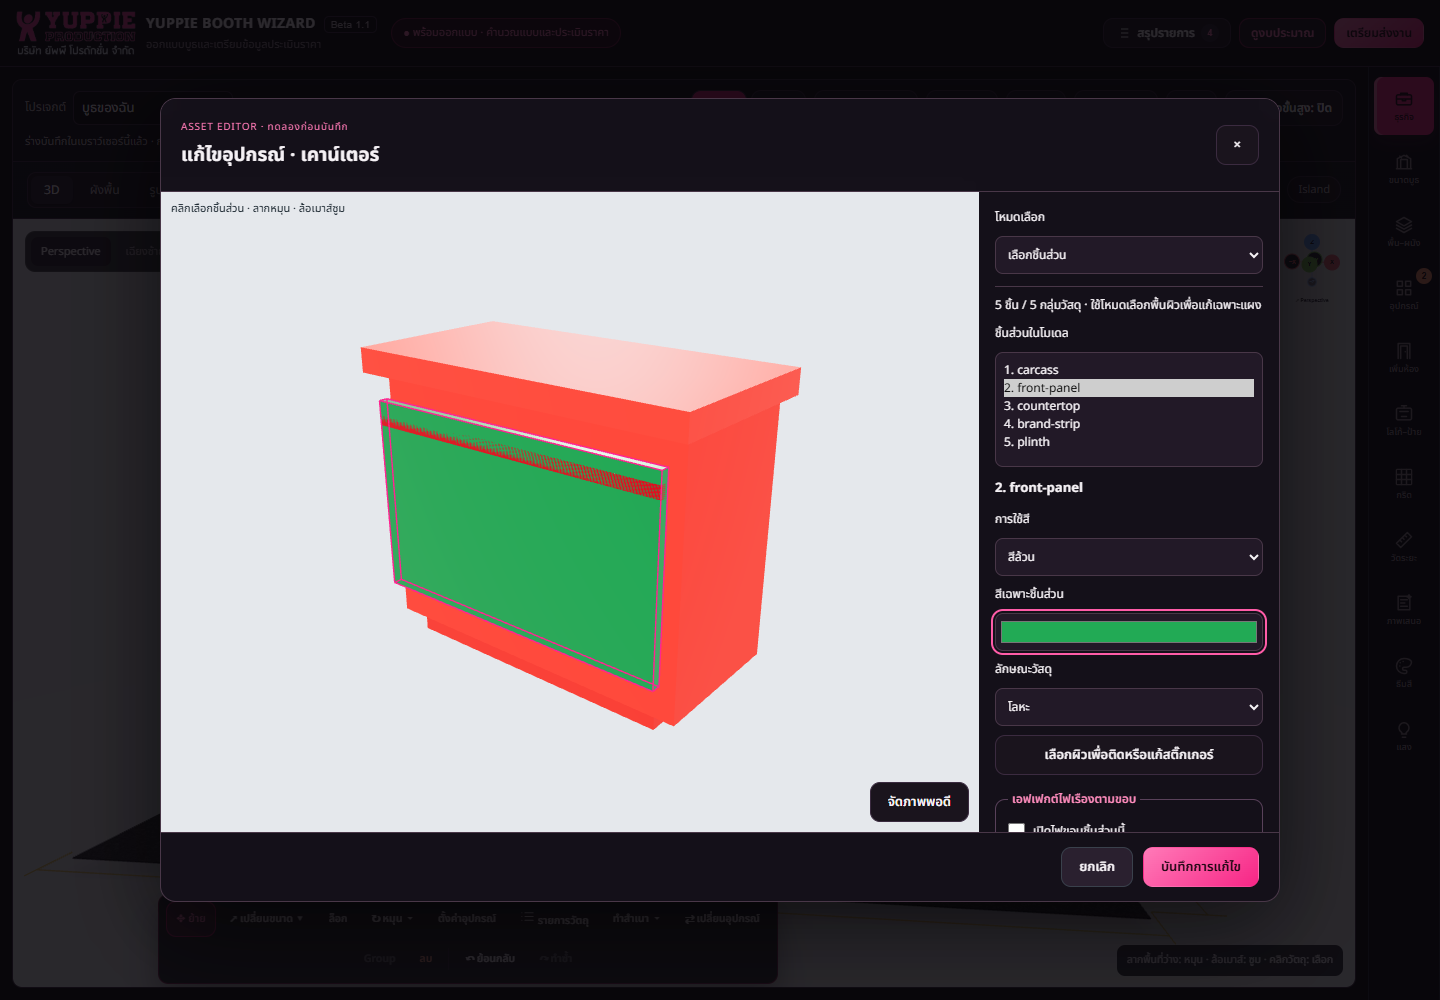
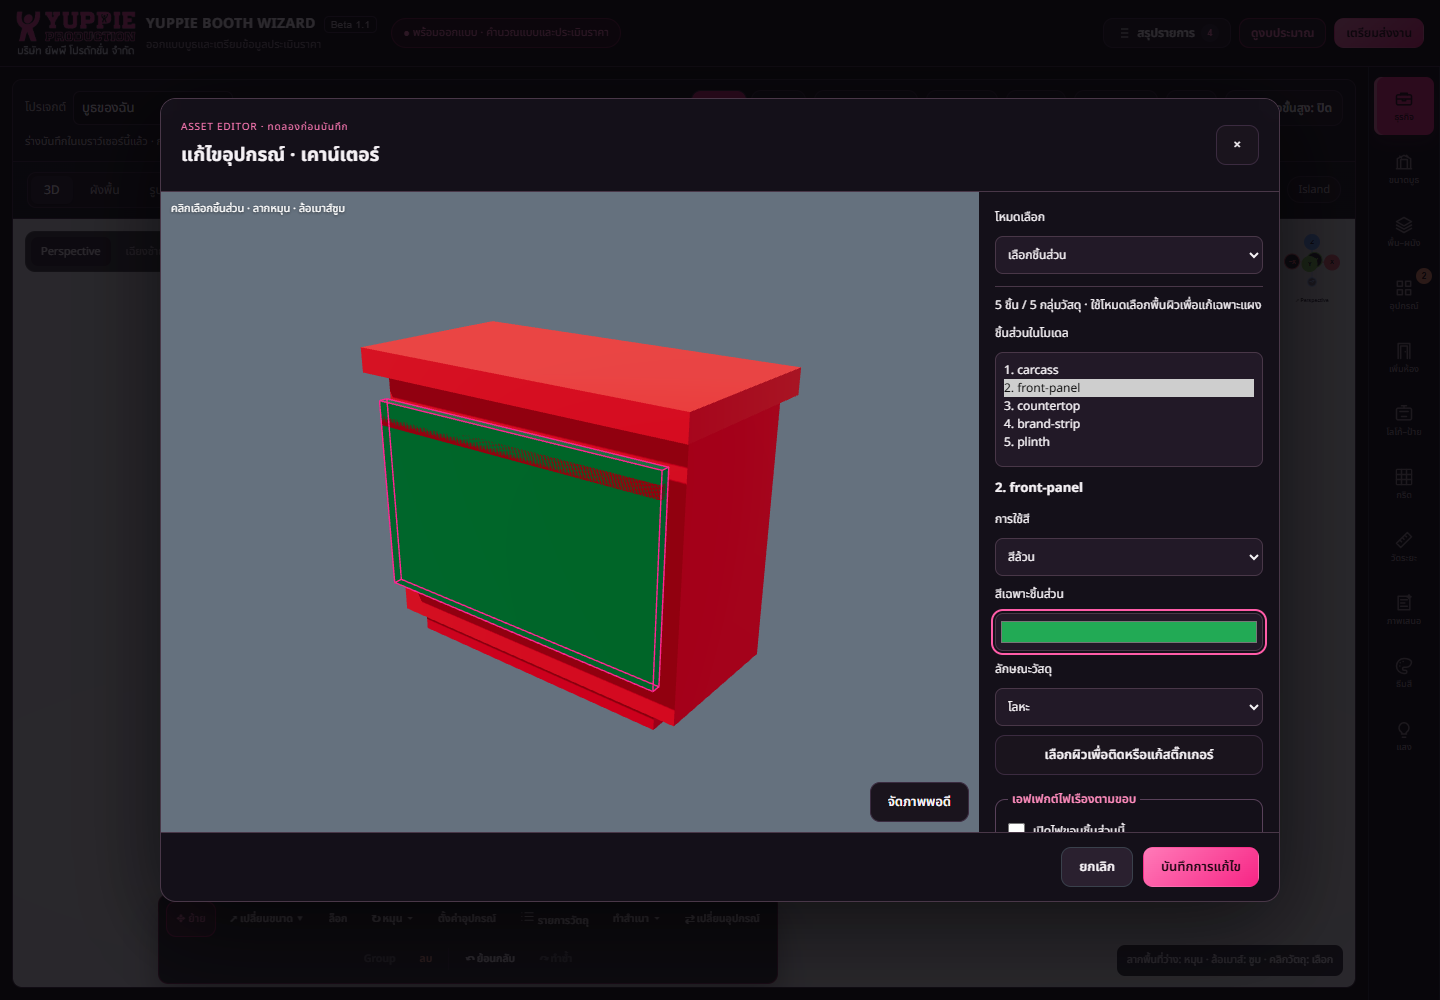
แก้บั๊ก Asset

diff --git a/public/yp-web-ai/js/asset-parts.js b/public/yp-web-ai/js/asset-parts.js
@@ -95,7 +95,7 @@
   const baseline=JSON.stringify(object.appearance),draft=sanitize(object.appearance.parts);
   document.body.append(dialog);dialog.showModal();
   let gl,controls,observer,highlight,environment,pathEditor,surfaceEditor,selected=0,frameId=0,closed=false,down=null;
-  const owned=new Set(),scene=new T.Scene();scene.background=new T.Color('#e5e8ec');
+  const owned=new Set(),scene=new T.Scene();scene.background=new T.Color('#65717e');
   const model=source.clone(true);model.position.set(0,0,0);model.rotation.set(0,0,0);model.scale.set(1,1,1);model.visible=true;
   // Cloned live effects share GPU resources: detach them without disposal, then build preview-owned copies.
   const clonedEffects=[];model.traverse(node=>{if(node.userData.partEdgeGlow||node.userData.assetSurfaceOverlay||node.userData.assetFaceSticker)clonedEffects.push(node);});clonedEffects.forEach(node=>node.removeFromParent());
@@ -104,24 +104,30 @@
   function nodeAt(key){let n=model;for(const i of key.split(':')[0].split('.').slice(1))n=n.children[Number(i)];return n;}
   const parts=sourceParts.map(e=>{const original=e.original.clone(),inherited=e.inherited.clone();owned.add(original);owned.add(inherited);return{...e,node:nodeAt(e.key),original,inherited};});
   parts.forEach(e=>global.YPAssetEdgeGlow?.update(T,e,draft[e.key]?.edgeGlow));
-  scene.add(model);scene.add(new T.HemisphereLight(0xffffff,0x596776,2));
-  const keyLight=new T.DirectionalLight(0xffffff,3);keyLight.position.set(4,6,5);scene.add(keyLight);
-  const fill=new T.DirectionalLight(0xffffff,1.5);fill.position.set(-3,3,-4);scene.add(fill);
+  // Preview-only studio: directional contrast and self-shadow reveal white panels and recesses.
+  // Do not change the saved materials or borrow the booth's potentially bright environment.
+  scene.add(model);scene.add(new T.HemisphereLight(0xffffff,0x444b55,.7));
+  model.updateMatrixWorld(true);
+  const studioBounds=new T.Box3().setFromObject(model),studioCenter=studioBounds.getCenter(new T.Vector3()),studioRadius=Math.max(studioBounds.getSize(new T.Vector3()).length()/2,.1);
+  const keyLight=new T.DirectionalLight(0xffffff,2.4);keyLight.position.copy(studioCenter).add(new T.Vector3(-3,5,4).multiplyScalar(studioRadius));keyLight.target.position.copy(studioCenter);keyLight.castShadow=true;
+  keyLight.shadow.mapSize.set(2048,2048);Object.assign(keyLight.shadow.camera,{left:-studioRadius*1.3,right:studioRadius*1.3,top:studioRadius*1.3,bottom:-studioRadius*1.3,near:studioRadius*.1,far:studioRadius*12});keyLight.shadow.camera.updateProjectionMatrix();keyLight.shadow.normalBias=studioRadius*.001;keyLight.shadow.bias=-.00005;scene.add(keyLight,keyLight.target);
+  const fill=new T.DirectionalLight(0xffffff,.45);fill.position.copy(studioCenter).add(new T.Vector3(3,2,-4).multiplyScalar(studioRadius));fill.target.position.copy(studioCenter);scene.add(fill,fill.target);
+  parts.forEach(e=>{e.node.castShadow=true;e.node.receiveShadow=true;});
   const camera=new T.PerspectiveCamera(40,1,.01,1000),ray=new T.Raycaster();
   const meshCount=new Set(parts.map(e=>e.node)).size;
   $('[data-part-info]').textContent=meshCount+' ชิ้น / '+parts.length+' กลุ่มวัสดุ · ใช้โหมดเลือกพื้นผิวเพื่อแก้เฉพาะแผง';
   parts.forEach((e,i)=>{const option=document.createElement('option');option.value=String(i);option.textContent=(i+1)+'. '+e.label+(Array.isArray(e.node.material)?' · วัสดุ '+(e.slot+1):'');list.append(option);});
   function dispose(){
    if(closed)return;closed=true;window.removeEventListener('keydown',guardKeys,true);cancelAnimationFrame(frameId);observer?.disconnect();controls?.dispose();
-   surfaceEditor?.dispose();pathEditor?.dispose();if(highlight){highlight.geometry.dispose();highlight.material.dispose();}
+   surfaceEditor?.dispose();pathEditor?.dispose();keyLight.shadow.map?.dispose();if(highlight){highlight.geometry.dispose();highlight.material.dispose();}
    parts.forEach(e=>global.YPAssetEdgeGlow?.clear(e));owned.forEach(m=>m.dispose());environment?.dispose();gl?.dispose();gl?.forceContextLoss();dialog.close();dialog.remove();active=null;trigger?.isConnected&&trigger.focus();
   }
   active={close:dispose};
   function guardKeys(event){if(!dialog.open)return;if(event.key==='Escape'){event.preventDefault();dispose();}if(event.key!=='Tab')event.stopImmediatePropagation();}
   window.addEventListener('keydown',guardKeys,true);
   try{gl=new T.WebGLRenderer({antialias:true,alpha:false});gl.setPixelRatio(Math.min(devicePixelRatio,2));gl.outputColorSpace=T.SRGBColorSpace;gl.toneMapping=T.ACESFilmicToneMapping;viewport.append(gl.domElement);controls=new r.controls.constructor(camera,gl.domElement);controls.enableDamping=true;
-   if(r.scene.environment)scene.environment=r.scene.environment;
-   else{const studio=new T.Scene();studio.background=new T.Color('#e1e5ec');const generator=new T.PMREMGenerator(gl);environment=generator.fromScene(studio);scene.environment=environment.texture;generator.dispose();}
+   gl.shadowMap.enabled=true;gl.shadowMap.type=T.PCFSoftShadowMap;
+   const studio=new T.Scene();studio.background=new T.Color('#8b929a');const generator=new T.PMREMGenerator(gl);environment=generator.fromScene(studio);scene.environment=environment.texture;generator.dispose();
    function resize(){const width=viewport.clientWidth,height=viewport.clientHeight;gl.setSize(width,height);camera.aspect=width/Math.max(height,1);camera.updateProjectionMatrix();}
    function frame(){model.updateMatrixWorld(true);const bounds=new T.Box3().setFromObject(model),center=bounds.getCenter(new T.Vector3()),size=bounds.getSize(new T.Vector3()),radius=Math.max(size.length()/2,.1),distance=radius/Math.sin(Math.atan(Math.tan(camera.fov*Math.PI/360)*Math.min(1,camera.aspect)))*1.15;controls.target.copy(center);camera.position.copy(center).add(new T.Vector3(1,.65,1.25).normalize().multiplyScalar(distance));camera.near=Math.max(.001,distance/1000);camera.far=Math.max(100,distance*20);camera.updateProjectionMatrix();controls.update();}
    observer=new ResizeObserver(resize);observer.observe(viewport);resize();frame();$('[data-part-frame]').onclick=frame;

diff --git a/public/yp-web-ai/css/asset-parts.css b/public/yp-web-ai/css/asset-parts.css
@@ -3,8 +3,8 @@
 .asset-parts-dialog>header{position:static;display:flex;justify-content:space-between;align-items:center;padding:16px 20px;background:none;border-bottom:1px solid #493748;height:auto}
 .asset-parts-dialog h2{font-size:19px;margin:4px 0}.asset-parts-dialog small{color:#ff79b5;font-size:10px;letter-spacing:.08em}
 .asset-parts-body{display:grid;grid-template-columns:minmax(0,1fr) 300px;height:min(65dvh,640px);min-height:370px}
-.asset-parts-view{position:relative;min-width:0;min-height:0;overflow:hidden;background:#e5e8ec}
-.asset-parts-view canvas{display:block;touch-action:none}.asset-parts-view p{position:absolute;top:8px;left:10px;right:10px;z-index:1;font-size:11px;color:#17232c;pointer-events:none;margin:0}.asset-parts-view>[data-part-frame]{position:absolute;right:10px;bottom:10px;z-index:1}
+.asset-parts-view{position:relative;min-width:0;min-height:0;overflow:hidden;background:#65717e}
+.asset-parts-view canvas{display:block;touch-action:none}.asset-parts-view p{position:absolute;top:8px;left:10px;right:10px;z-index:1;font-size:11px;color:#fff;text-shadow:0 1px 3px #0009;pointer-events:none;margin:0}.asset-parts-view>[data-part-frame]{position:absolute;right:10px;bottom:10px;z-index:1}
 .asset-parts-body aside{overflow:auto;padding:16px;display:flex;flex-direction:column;gap:9px;font-size:12px;text-align:left}
 .asset-parts-body aside p{margin:0;line-height:1.6}.asset-parts-body h3{margin:2px 0;font-size:13px;overflow-wrap:anywhere}
 .asset-parts-body select{width:100%;padding:8px;border:1px solid #493748;border-radius:8px;background:#221927;color:#f5f1f5}.asset-parts-body select[size]{min-height:115px}.asset-parts-body input[type=color]{width:100%;min-height:38px;padding:3px;background:#221927;border:1px solid #493748;border-radius:8px}

diff --git a/public/yp-web-ai/index.html b/public/yp-web-ai/index.html
@@ -1791,11 +1791,11 @@ select:focus{border-color:var(--acc)}
 <script src="js/viewport-gizmo.js?v=20260916-1"></script>
 <link rel="stylesheet" href="css/measure-tape.css?v=20260916-axis-colors-4">
 <script src="js/measure-tape.js?v=20260916-axis-colors-4"></script>
-<link rel="stylesheet" href="css/asset-parts.css?v=20260918-unified-1">
+<link rel="stylesheet" href="css/asset-parts.css?v=20260918-studio-2">
 <script src="js/asset-edge-glow.js?v=20260918-path-3"></script>
 <script src="js/asset-glow-path.js?v=20260918-red-cursor-2"></script>
 <script src="js/asset-surfaces.js?v=20260918-unified-1"></script>
-<script src="js/asset-parts.js?v=20260918-unified-1"></script>
+<script src="js/asset-parts.js?v=20260918-studio-2"></script>
 <script src="js/asset-surface-repair.js?v=20260918-1"></script>
 <script src="js/asset-face-stickers.js?v=20260918-surfaces-1"></script>
 <script src="js/my-asset-preview.js?v=20260918-surface1"></script>
